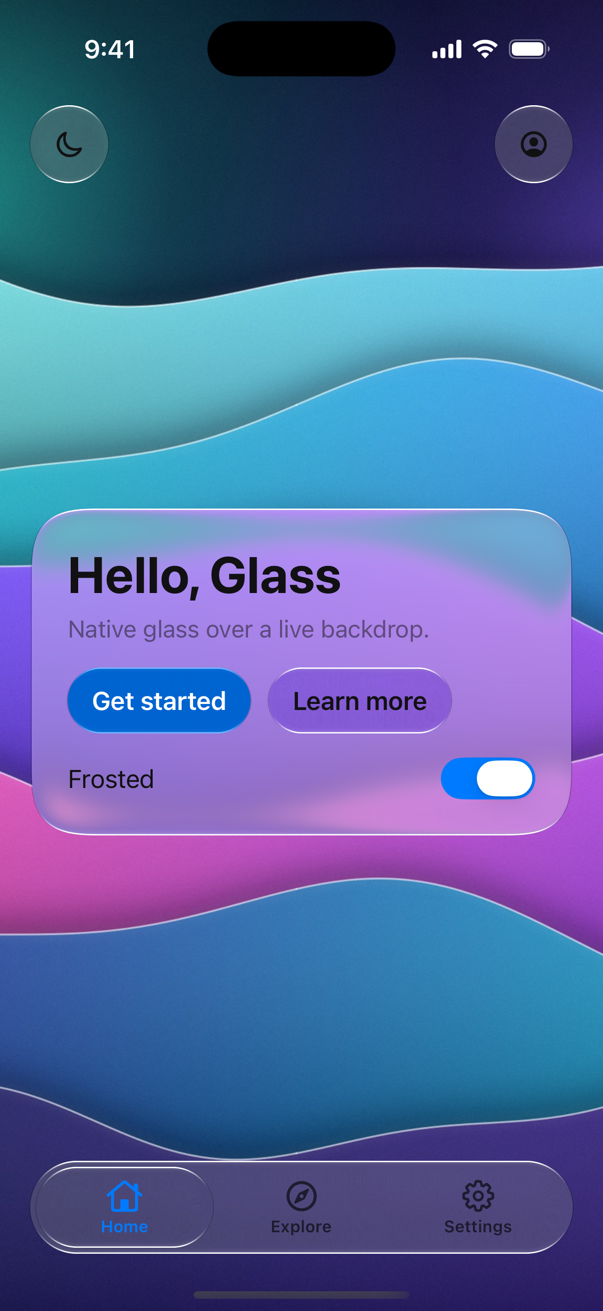
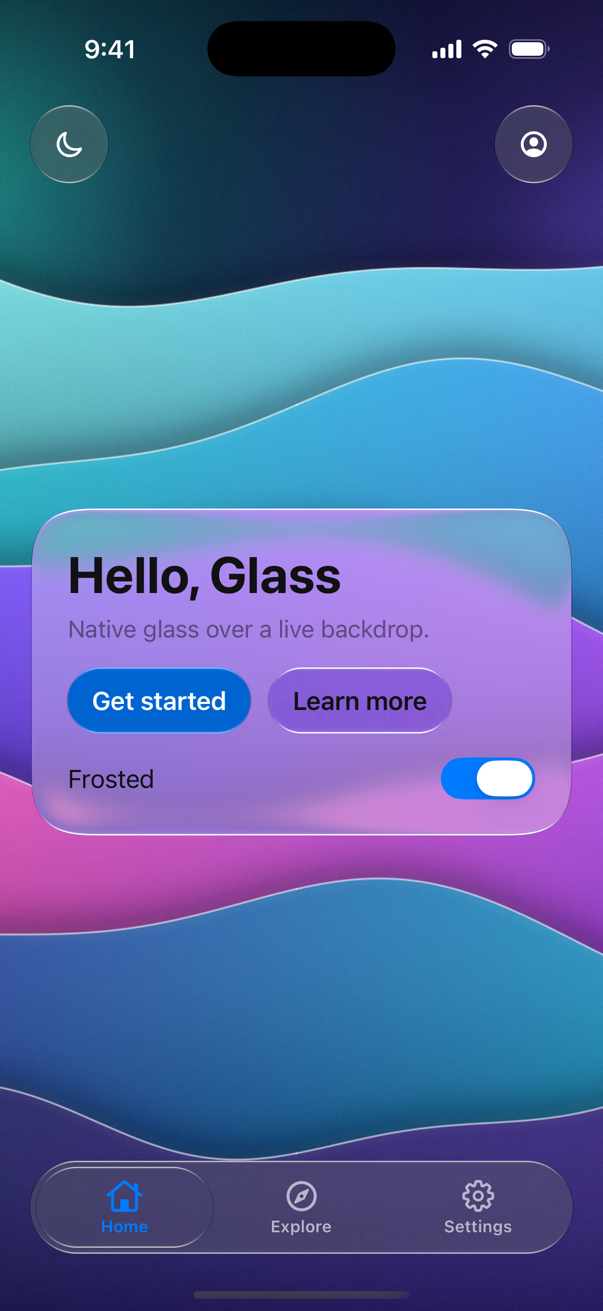
SwiftUI example: dark glass bars in both appearances, light and dark screenshots
The toolbar and tab bar sit over the aurora's dark top and bottom, so they are dark glass with white labels in both
appearances, as in the Compose and WPF examples; only the card follows the system appearance. The README shows the
iPhone 16 Pro screen in light and dark side by side and links the other platforms' examples.

diff --git a/examples/swiftui/HelloGlass/HelloGlass/ContentView.swift b/examples/swiftui/HelloGlass/HelloGlass/ContentView.swift
@@ -45,8 +45,10 @@ struct ContentView: View {
         .preferredColorScheme(scheme)
     }
 
+    // The bars sit over the wallpaper's dark top and bottom, so they are
+    // dark glass in both appearances and their labels stay white.
     private var toolbar: some View {
-        GlassToolbar {
+        GlassToolbar(appearance: .dark) {
             GlassButton(
                 icon: colorScheme == .dark ? "sun.max" : "moon",
                 label: colorScheme == .dark ? "Light appearance" : "Dark appearance"
@@ -83,7 +85,7 @@ struct ContentView: View {
     }
 
     private var tabBar: some View {
-        GlassTabBar(selection: $tab) {
+        GlassTabBar(selection: $tab, appearance: .dark) {
             GlassTab("Home", systemImage: "house", value: Tab.home)
             GlassTab("Explore", systemImage: "safari", value: Tab.explore)
             GlassTab("Settings", systemImage: "gearshape", value: Tab.settings)

diff --git a/examples/swiftui/HelloGlass/README.md b/examples/swiftui/HelloGlass/README.md
@@ -6,16 +6,21 @@ The smallest complete Liquid Glass app for iOS 17+ and macOS 14+: one screen ove
   prominent tinted **Get started** button and a plain glass **Learn more** button,
 - a **Frosted** switch that turns the card from Regular into Clear glass and back,
 - a top `GlassToolbar` with two icon buttons (switch between light and dark, profile),
-- a floating `GlassTabBar` with Home, Explore and Settings.
+- a floating `GlassTabBar` with Home, Explore and Settings. Get started selects Explore, and Profile selects Settings.
+
+The card follows the system appearance until you pick one in the toolbar. The bars sit over the wallpaper's dark top
+and bottom, so they are dark glass in both appearances and their labels stay white.
 
 The wallpaper is the `GlassContent`, so every piece of glass refracts it live. All glass leaves `refraction` unset, so
 each piece travels by its own size on iOS: 60 for the card, 39 for the 52 pt toolbar clusters, 46.5 for the 62 pt
-tab bar. Everything has an accessibility label, and the screen follows the system appearance until you pick one in
-the toolbar.
+tab bar. Every control has an accessibility label, and the title and subtitle read as one element.
 
-The same screen exists for [Jetpack Compose](../../compose) and [WPF](../../wpf), so the screenshots line up.
+The same screen exists for [Jetpack Compose](../../compose/HelloGlass) and [WPF](../../wpf/HelloGlass), so the screenshots line up.
 
-![Hello, Glass on iPhone 16 Pro: a Regular glass card over the aurora wallpaper, a toolbar with two round glass buttons and a three-tab glass bar](screenshot.png)
+<p align="center">
+  <img src="screenshot.png" width="45%" alt="Hello, Glass on iPhone 16 Pro in light appearance: a frosted glass card titled Hello, Glass with a blue Get started button, a glass Learn more button and a Frosted switch, under two round dark glass toolbar buttons and above a dark glass tab bar, over the aurora wallpaper">
+  <img src="screenshot-dark.png" width="45%" alt="The same screen in dark appearance: the card is dark glass with white text">
+</p>
 
 ## Run it
 
